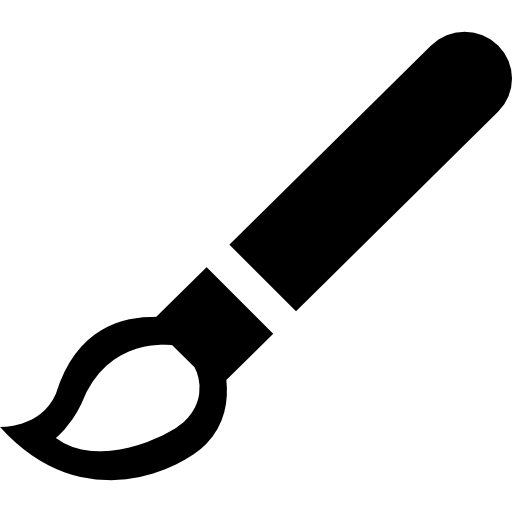
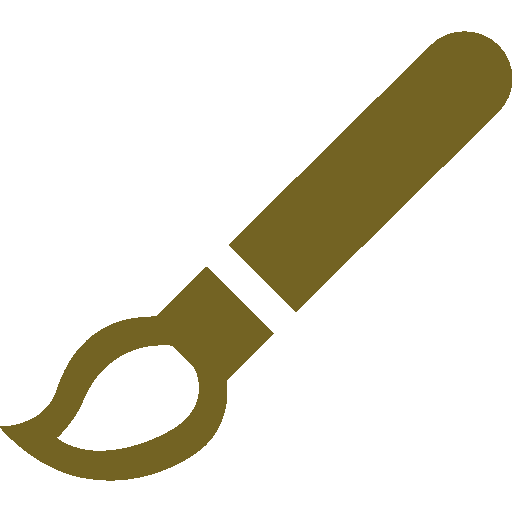
Fazendo.

Changed region(s): [[0.4375, 0.0625, 1.0, 0.625], [0.0, 0.5312, 0.5312, 0.9375]]

diff --git a/colorPaint/colorPaint.css b/colorPaint/colorPaint.css
@@ -68,8 +68,8 @@ p {
 }
 
 .bttBarraSuperior:hover {
-    background-color: rgb(15, 15, 15);
-    color: rgb(100, 100, 100);
+    background-color: rgb(10, 10, 10);
+    color: rgba(213, 192, 107, 0.5);
 }
 
 #contentTools {
@@ -99,23 +99,38 @@ p {
     height: auto;
     padding: 12px;
 }
+/* ===================================== FERRAMENTAS ========================================= */
+
+#pincel{
+    background-image: url("../colorPaint/imagens/icones/ferramentaPincel.png");    
+}
+
+#borracha{
+    background-image: url("../colorPaint/imagens/icones/ferramentaBorracha.png"); 
+}
 
 .bttFerramentas {
     width: 35px;
     height: 30px;
     display: inline-block;
-    border: 1px solid rgb(20, 20, 20);
-    background-color: rgb(71, 71, 71);
+    border: 2px solid rgb(0, 0, 0);
+    background-color: rgb(0, 0, 0);
     border-radius: 5px;
+    background-repeat: no-repeat;
+    background-size: 70%;
+    background-position: 50%;
 }
 
 .bttFerramentasEscolhida {
     width: 35px;
     height: 30px;
     display: inline-block;
-    border: 1px solid rgb(91, 91, 91);
+    border: 1px solid rgb(143, 123, 44);
     background-color: rgb(15, 15, 15);
     border-radius: 5px;
+    background-repeat: no-repeat;
+    background-size: 70%;
+    background-position: 50%;
 }
 
 #coresSelecionadas {
@@ -647,8 +662,8 @@ p {
 }
 
 .botoesNoSelecionarCor:hover {
-    background-color: rgb(15, 15, 15);
-    color: rgb(110, 110, 110);
+    background-color: rgb(10, 10, 10);
+    color: rgba(213, 192, 107, 0.479);
 }
 
 /* ============================================= FIM Seletor de cores ============================================= */
@@ -659,8 +674,10 @@ p {
     height: 80px;
     padding: 0px;
     border-top: 1px solid rgb(65, 65, 65);
+    font-weight: bold;
     margin-bottom: 7px;
-    background-color: rgb(25, 25, 25);
+    background-color: rgb(0, 0, 0);
+    color: rgb(104, 104, 104);
     border-radius: 4px;
 }
 
@@ -669,9 +686,11 @@ p {
     width: 100%;
     height: 80px;
     padding: 0px;
-    border-top: 1px solid rgb(51, 51, 51);
+    border-top: 1px solid rgb(10, 10, 10);
     margin-bottom: 7px;
-    background-color: rgb(51, 51, 51);
+    font-weight: bold;
+    background-color: rgba(115, 99, 35, 0.8);
+    color: rgb(0, 0, 0);
     border-radius: 4px;
 }
 

diff --git a/colorPaint/colorPaint.js b/colorPaint/colorPaint.js
@@ -21,8 +21,8 @@ let pintar;//Armazena o canvas onde ocorrerá os "eventos" de pintura.
 let ctxPintar;//Armazena o contexto 2d de "pintar".
 let OpacidadeCorFerramenta = 100;//Armazena o valor da opacidade da cor de O a 100.
 let projetoCriado = false;//Saber se existe projeto já criado.
-let nomeDoProjeto; //Armazena o nome do projeto.
-let txtCorEscolhida; //Recebe a string da cor do primeiro plano no formato RGB para informar ao usuário.
+let nomeDoProjeto;//Armazena o nome do projeto.
+let txtCorEscolhida;//Recebe a string da cor do primeiro plano no formato RGB para informar ao usuário.
 let txtResolucao;//Recebe a string da resolução que o usuário escolheu para o projeto para informar ao usuário.
 let txtPosicaoCursor;
 let janelaSeleciona;//Recebe toda a função "janelaSeletorDeCor".
@@ -55,7 +55,7 @@ function colorPaint() {
     let posicaoMouseY;
     let pintando = false;
     let ctrlPressionado = false;
-    let ferramentaSelecionada;
+    let ferramentaSelecionada = 1;
     let arrayFerramentas = [{ ferramenta: document.getElementById("pincel"), nome: "Pincel", id: 1 },
     { ferramenta: document.getElementById("borracha"), nome: "Borracha", id: 2 },]
 
@@ -607,7 +607,6 @@ function mouseSobre() {
 function mouseFora() {
     MouseNoBttVer = false;
 }
-
 // ==========================================================================================================================================================================================================================================
 
 function ajustarTelasCanvas() {
@@ -1314,4 +1313,3 @@ document.addEventListener("keydown", function (e) {
         return false;
     }
 });
-

diff --git a/colorPaint.html b/colorPaint.html
@@ -116,12 +116,12 @@
             <div id="contentTools" class="noSelection">
                 <div id="barraLateralEsquerda">
                     <div id="ferramentas">
-                        <div id="pincel" class="bttFerramentas cursor"></div>
-                        <div id="borracha" class="bttFerramentas cursor"></div>
-                        <div id="pincel" class="bttFerramentas cursor"></div>
-                        <div id="pincel" class="bttFerramentas cursor"></div>
-                        <div id="pincel" class="bttFerramentas cursor"></div>
-                        <div id="pincel" class="bttFerramentas cursor"></div>
+                        <div id="pincel" class="bttFerramentasEscolhida cursor" title="Ferramenta Pincel"></div>
+                        <div id="borracha" class="bttFerramentas cursor" title="Ferramenta Borracha"></div>
+                        <div id="contaGotas" class="bttFerramentas cursor"></div>
+                        <div class="bttFerramentas cursor"></div>
+                        <div class="bttFerramentas cursor"></div>
+                        <div class="bttFerramentas cursor"></div>
                     </div>
                     <div id="coresSelecionadas">
                         <div id="corPrincipal" class="corEscolhida cursor">

diff --git a/topoMenu/topoMenu.css b/topoMenu/topoMenu.css
@@ -343,14 +343,14 @@
 
 #opcoesmenu li a:hover, #opcoesmenu li p:hover {
     border-bottom: solid 3px rgba(213, 192, 107, 0.83);
-    color: #d5c06b;
+    color: rgb(213, 192, 107);
     transition: all 0.35s;
     -webkit-transition: all 0.35s;
 }
 
 #opcoesmenu ul li a:hover, #opcoesmenu ul li p:hover {
     background-color: rgba(100, 68, 8, 0.83);
-    color: #d5c06b;
+    color: rgb(213, 192, 107);
     transition: all 0.35s;
     -webkit-transition: all 0.35s;
     border-bottom: none;
@@ -358,12 +358,12 @@
 
 #opcoesmenu2 li a:hover, #opcoesmenu2 li p:hover {
     background-color: rgba(80, 80, 80, 0.486);
-    color: #d5c06b;
+    color: rgb(213, 192, 107);
 }
 
 #opcoesmenu2 ul li a:hover, #opcoesmenu2 ul li p:hover {
     background-color: rgba(100, 68, 8, 0.83);
-    color: #d5c06b;
+    color: rgb(213, 192, 107);
 }
 
 #opcoesmenu ul {
@@ -439,7 +439,7 @@
 }
 
 #opcoesmenu p:hover {
-    color: #d5c06b;
+    color: rgb(213, 192, 107);
     transition: all 0.35s;
     -webkit-transition: all 0.35s;
 }
